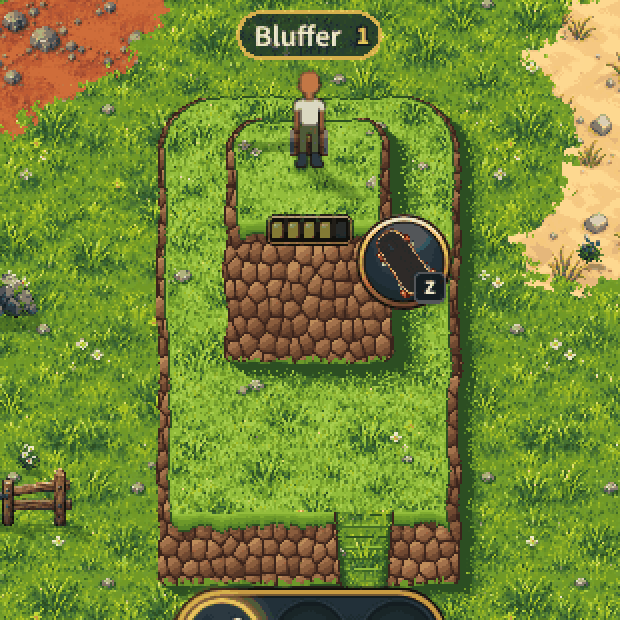
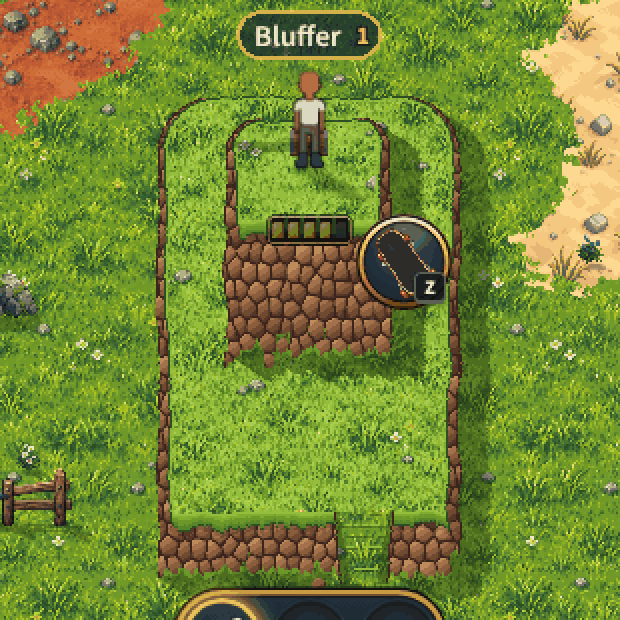
v2.3.4494: the Town Bluff's cliffs end on whole boulders (a jagged bottom), and its shade is the world's own
The owner: "Can you make the elevated dirt wall kind of jagged at the
bottom so it doesn't look like a perfect cutout?  Shadow is still kinda
off."

- the face ended on a line, every boulder along it sliced flat.  Now a
  boulder is in the wall or it is not (boulderAt, hillStone): the last
  row's keep the round of their lower halves, some sit lower than their
  neighbours, now and then one sits loose at the foot, and the ground's
  tufts stand in front of each.  The walk grid is the same cells.
- the cast shade was two dark greens scattered pixel by pixel, at its
  own angle.  Now it is thrown by the world's sun (WHEEL_SUN: 0.5 of the
  height east, 0.34 south, as a tree's and a player's) and painted as a
  smooth veil: each pixel under it taken to what the commons' shade
  makes of it (the grass by tone, a stone or flower by lightness), so
  the ground shows through, darker.  No colour outside RISE_PALETTE.
Drawing only: no server file, no bake.

Claude-Session: https://claude.ai/code/session_01LccHaiVDemmhEbxAJ4B2S9

diff --git a/public/tools/world/core/rises.js b/public/tools/world/core/rises.js
@@ -175,7 +175,11 @@ export const RISE_PALETTE = Object.freeze({
   grassEdge: [44, 78, 34],
   /* v2.3.4483: the brightest blade of a hill's top, which stands in the light (risePaint's lift) */
   grassLit: [168, 206, 78],
-  shade: Object.freeze([[44, 78, 34], [68, 108, 40]]),
+  /* v2.3.4494: a hill's cast shade, in the WORLD's own (lightfx/zoneLight.js: the commons' shadows are
+     0x13240c at 0.36 over the ground): the commons' grass tones under it, darkest to lightest, and
+     what a stone or a flower on that grass comes to.  risePaint picks by the pixel it falls on. */
+  shade: Object.freeze([[36, 60, 26], [50, 80, 30], [62, 94, 30], [77, 110, 30], [95, 130, 38]]),
+  shadeStone: Object.freeze([[56, 60, 50], [86, 90, 76], [118, 122, 104]]),
 });
 
 const pick = (arr, v) => arr[Math.max(0, Math.min(arr.length - 1, Math.floor(v * arr.length)))];
@@ -216,6 +220,19 @@ export function risePaint(plan, data, ow, oh, X0, Y0, K, opts = {}) {
       const rgb = riseColour(L, gx, gy, seed);
       if (!rgb) continue;
       const o = (py * ow + px) * 4;
+      /* v2.3.4494: A HILL'S CAST SHADE, AS THE WORLD'S.  The owner: "Shadow is still kinda off."  It
+         was two fixed dark greens scattered pixel by pixel -- a speckled band, beside trees and
+         players whose shadows are a smooth veil over the ground (the shadow layer's one shade).
+         Now it is that veil, painted: every pixel under it is taken to what the world's shade makes
+         of it -- the grass by its own tone (five steps), a stone or a flower by its lightness
+         (three) -- so the ground's detail shows through it, darker, and nothing sparkles.  Still
+         no colour but the rises' own. */
+      if (rgb.shade !== undefined) {
+        const R0 = data[o], G0 = data[o + 1], B0 = data[o + 2];
+        if (G0 > R0 + 10 && G0 > B0 + 10) set(o, RISE_PALETTE.shade[G0 >= 165 ? 4 : G0 >= 140 ? 3 : G0 >= 118 ? 2 : G0 >= 95 ? 1 : 0]);
+        else { const l = (R0 + G0 + B0) / 3; set(o, RISE_PALETTE.shadeStone[l >= 170 ? 2 : l >= 115 ? 1 : 0]); }
+        continue;
+      }
       if (rgb.lift === undefined) { set(o, rgb); continue; }
       /* v2.3.4483: A HILL'S TOP, LIT.  The owner, of the first grass ledge: "there's something wrong with
          the grass on top.  It looks like it's a transparent on top of the elevated surface.  It needs
@@ -259,7 +276,8 @@ export function riseColour(L, gx, gy, seed) {
     /* v2.3.4483: a hill's wander further and more slowly (a game px is under half a screen px on a
        phone): its lip up to 7 px into the top's front row, its foot up to 9 px onto the ground */
     const lip = hill ? top - 3.5 + 3.5 * valueNoise(gx * 0.045, 3.1, seed + r.k) : top - 2 + 2 * valueNoise(gx * 0.07, 3.1, seed + r.k);
-    const foot = hill ? hillFoot(r, c, gx, seed) : r.y1 * c + 2 + 2 * valueNoise(gx * 0.09, 5.3, seed + 7 + r.k);
+    /* (v2.3.4494: a hill's face ends on its boulders, not on a line: `foot` is the lowest one may sit) */
+    const foot = hill ? r.y1 * c + HILL.FOOT_MAX : r.y1 * c + 2 + 2 * valueNoise(gx * 0.09, 5.3, seed + 7 + r.k);
     if (gy >= lip && gy < foot) {
       if (!hill) return faceColour(r, c, gx, gy, top, foot, lip, seed);
       /* v2.3.4483: where a hill's face draws nothing (past its round ends, on its ramp) the rise under
@@ -267,7 +285,7 @@ export function riseColour(L, gx, gy, seed) {
          -- but not on its own ramp, which hillFace shades from its cut ends */
       const col = hillFace(r, c, gx, gy, top, foot, lip, seed);
       if (col) return col;
-      if (!(r.ramp && gx >= r.ramp.x0 * c && gx < r.ramp.x1 * c)) { const sh = hillCast(r, c, gx, gy, seed); if (sh) return sh; }
+      if (!(r.ramp && gx >= r.ramp.x0 * c && gx < r.ramp.x1 * c && gy < r.y1 * c + 3)) { const sh = hillCast(r, c, gx, gy, seed); if (sh) return sh; }
       continue;
     }
     /* v2.3.4462: a hill throws shade on the ground at its foot (what makes a bank stand UP on flat
@@ -414,30 +432,64 @@ function rimColour(r, c, gx, gy, seed) {
        laid again, the cliff's cut ends casting more shade the taller they stand.
    Painted in code like the rest (the sheet is "a visual design reference rather than a ...
    game-ready tile atlas": no picture is loaded), in RISE_PALETTE's own colours. */
-const HILL = Object.freeze({ GW: 16, GH: 20, WALL: 13, WALL_BACK: 5, CORNER: 14, FOOT_R: 10, CAST: 44, CAST_X: 0.4, CAST_Y: 0.3, CAST_MAX_X: 40, CAST_MAX_Y: 30 });
+const HILL = Object.freeze({ GW: 16, GH: 20, WALL: 13, WALL_BACK: 5, CORNER: 14, FOOT_MAX: 20, CAST: 44, CAST_H: 80 });
+/* v2.3.4494: the world's sun (lightfx/zoneLight.js WHEEL_SUN: a point h px up lands 0.5 h east and
+   0.34 h south of its foot) -- a hill's shade falls the way a tree's and a player's do */
+const SUN = Object.freeze({ lx: 0.5, ly: 0.34 });
+const HILL_SHADE = Object.freeze({ shade: 1 });   /* riseColour's answer for "in a hill's shade" (risePaint) */
 /* v2.3.4483: what riseColour answers for a hill's top -- not a colour but how much of the ground's own
    grass risePaint takes up a tone there: seven blades in ten on a rise on the ground, nearly all on one
    standing on another (told from a colour by its `lift`) */
 const HILL_LIFT = Object.freeze([Object.freeze({ lift: 0.7 }), Object.freeze({ lift: 0.92 })]);
-/* a hill's foot line at game px gx (riseColour's, and hillHolds'): 2-9 px past its last row */
-function hillFoot(r, c, gx, seed) {
-  return r.y1 * c + 2 + 2 * valueNoise(gx * 0.09, 5.3, seed + 7 + r.k) + 2.5 + 2.5 * valueNoise(gx * 0.031, 8.8, seed + 9 + r.k);
-}
 /* the corner's radius: as wide as the rise's `round` cells allow */
 function hillRound(r, c) { return r.round > 0 ? c * r.round - 12 : HILL.CORNER; }
-/* Is game px (gx, gy) inside a hill's DRAWN shape -- its top, its side walls, its face down to the
-   foot's line, inside its wandering edge and round corners, and not its ramp's gap?  The shape
+/* ═══ v2.3.4494: A CLIFF ENDS ON ITS BOULDERS ═══
+   The owner: "Can you make the elevated dirt wall kind of jagged at the bottom so it doesn't look
+   like a perfect cutout?"  The face ended on a line (a gently wandering one, with tufts in front):
+   every boulder along it was sliced flat.  Now a boulder is in the wall or it is not, whole: the
+   ones whose middle is above a wandering line through the face's last row are, and now and then
+   one just below it too (a stone that has come away and sits at the foot).  So the wall's bottom is
+   the round undersides of whole stones, some sitting lower than their neighbours, with gaps of
+   ground between them.  The walk grid is the same cells: only the picture ends differently
+   (HILL.FOOT_MAX: the lowest a stone's underside reaches below the face's last row). */
+function boulderAt(gx, gy, seed) {
+  const u = gx / HILL.GW, v = gy / HILL.GH, iu = Math.floor(u), iv = Math.floor(v);
+  let f1 = 9, f2 = 9, sx = 0, sy = 0, ci0 = 0, cj0 = 0, cx = 0, cy = 0;
+  for (let j = -1; j <= 1; j++) for (let i = -1; i <= 1; i++) {
+    const ci = iu + i, cj = iv + j;
+    const px = ci + 0.5 + (cj & 1 ? 0.5 : 0) + (hash2(ci, cj, seed + 71) - 0.5) * 0.6;
+    const py = cj + 0.5 + (hash2(ci, cj, seed + 73) - 0.5) * 0.5;
+    const d = Math.hypot(u - px, v - py);
+    if (d < f1) { f2 = f1; f1 = d; sx = u - px; sy = v - py; ci0 = ci; cj0 = cj; cx = px * HILL.GW; cy = py * HILL.GH; } else if (d < f2) f2 = d;
+  }
+  return { gap: f2 - f1, sx, sy, sh: hash2(ci0, cj0, seed + 75), loose: hash2(ci0, cj0, seed + 77), cx, cy };
+}
+/* is this point of this boulder (boulderAt's) part of rise r's wall -- or of a loose one at its foot?
+   A boulder in the wall's last row keeps only the ROUND of its lower half (the cells of a grid of
+   points meet in corners: left whole, the wall's bottom is a row of teeth), and a loose one is
+   round all over. */
+function hillStone(r, c, st, seed, wallOnly) {
+  const line = r.y1 * c - 9 + 6 * valueNoise(st.cx * 0.05, 8.8 + r.k, seed + 9);
+  if (st.cy <= line - HILL.GH) return true;
+  /* (a last-row or loose boulder whose middle is outside the cliff's end is not there: a sliver of
+     one would hang off the corner) */
+  if (Math.min(st.cx - r.x0 * c - hillEdge(r, 0, st.cy, seed), r.x1 * c - st.cx - hillEdge(r, 1, st.cy, seed)) < 4) return false;
+  const d = Math.hypot(st.sx, st.sy);
+  if (st.cy <= line) return st.sy <= 0 || d < 0.56;
+  /* (a loose one casts no shade of the cliff's: `wallOnly`, hillHolds) */
+  return !wallOnly && st.cy <= line + 13 && st.loose > 0.78 && d < 0.46;
+}
+/* Is game px (gx, gy) inside a hill's DRAWN shape -- its top, its side walls, its face down to its
+   last boulders, inside its wandering edge and round corners, and not its ramp's gap?  The shape
    hillRim and hillFace draw, asked as one question: what casts the shade (hillCast). */
 function hillHolds(r, c, gx, gy, seed) {
   const x0 = r.x0 * c, x1 = r.x1 * c, y0 = r.y0 * c, top = r.faceY0 * c;
-  if (gx < x0 || gx >= x1 || gy < y0 || gy >= r.y1 * c + 10) return false;
+  if (gx < x0 || gx >= x1 || gy < y0 || gy >= r.y1 * c + HILL.FOOT_MAX) return false;
   const rw = gx - x0 - hillEdge(r, 0, gy, seed), re = x1 - gx - hillEdge(r, 1, gy, seed), end = Math.min(rw, re);
   if (end < 0) return false;
   if (gy >= top - 2) {
-    const ds = hillFoot(r, c, gx, seed) - gy;
-    if (ds <= 0) return false;
-    if (end < HILL.FOOT_R && ds < HILL.FOOT_R && Math.hypot(HILL.FOOT_R - end, HILL.FOOT_R - ds) > HILL.FOOT_R) return false;
-    return !(r.ramp && gx >= r.ramp.x0 * c + 4 && gx < r.ramp.x1 * c - 4);
+    if (r.ramp && gx >= r.ramp.x0 * c + 4 && gx < r.ramp.x1 * c - 4) return false;
+    return gy < r.y1 * c - 40 || hillStone(r, c, boulderAt(gx, gy, seed), seed, true);
   }
   const gn = gy - y0 - hillEdge(r, 2, gx, seed);
   if (gn < 0) return false;
@@ -445,23 +497,25 @@ function hillHolds(r, c, gx, gy, seed) {
   if (side < R && gn < R) { const ax = R - side, ay = R - gn, h = Math.hypot(ax, ay); return h <= 0 || R - h >= -wall * (ax / h); }
   return true;
 }
-/* v2.3.4483: THE SHADE A HILL CASTS -- its drawn shape's own shadow on the ground, thrown south-east
-   (the light is from the north-west, as on its boulders), longer the taller it stands: 0.4 of its
-   height east and 0.3 south (a 72 px terrace 29 and 22 px; a 144 px ledge the caps, 40 and 30).
-   The owner, of the first one (a straight band down the east side from below the corner, and a
-   separate one at the foot): "correct the shadow that doesnt band around the bend.  The overall
-   structure still needs more of a shadow effect."  So it is ONE shadow, the shape's: a point is in
-   it when the hill stands between it and the light -- found by stepping back toward the light --
-   so it bends round the back corner, runs down the side, and turns under the foot with no seam.
-   Solid at the hill, breaking up to nothing at its far edge.  null where there is none. */
+/* v2.3.4483: THE SHADE A HILL CASTS -- its drawn shape's own shadow on the ground.  The owner, of the
+   first one (a straight band down the east side from below the corner, and a separate one at the
+   foot): "correct the shadow that doesnt band around the bend.  The overall structure still needs
+   more of a shadow effect."  So it is ONE shadow, the shape's: a point is in it when the hill stands
+   between it and the light -- found by stepping back toward the light -- so it bends round the back
+   corner, runs down the side, and turns under the foot with no seam.
+   v2.3.4494 ("Shadow is still kinda off"): thrown by the WORLD's sun (SUN: a tree's shadow and a
+   player's fall the same way and as far for their height: 0.5 of the rise's height east, 0.34
+   south; a rise over HILL.CAST_H tall casts as one that tall, so a ledge's shade stays on the
+   terrace it stands on), and a smooth veil where it was a scatter of dark pixels (HILL_SHADE:
+   risePaint), breaking up only along its last sixth.  null where there is none. */
 function hillCast(r, c, gx, gy, seed) {
-  const cx = Math.min(HILL.CAST_MAX_X, r.h * HILL.CAST_X), cy = Math.min(HILL.CAST_MAX_Y, r.h * HILL.CAST_Y);
-  const N = 8;
+  const h = Math.min(HILL.CAST_H, r.h), cx = h * SUN.lx, cy = h * SUN.ly;
+  const N = 12;
   for (let i = 1; i <= N; i++) {
     const t = i / N;
     if (!hillHolds(r, c, gx - cx * t, gy - cy * t, seed)) continue;
-    if (t > 0.3 && hash2(Math.floor(gx), Math.floor(gy), seed + 43) < (t - 0.3) / 0.7 * 0.92) return null;
-    return RISE_PALETTE.shade[t < 0.6 ? 0 : 1];
+    if (t > 0.84 && hash2(Math.floor(gx), Math.floor(gy), seed + 43) < (t - 0.84) / 0.16) return null;
+    return HILL_SHADE;
   }
   return null;
 }
@@ -482,20 +536,11 @@ function hillWall(r, c, gy) {
 /* a boulder of the cliff at (gx, gy): the cells of a jittered grid of points, taller than wide, each
    a stone lit from the upper left with a dark gap round it.  `dark` 0-1 takes it down (deep in the
    face, under the cap, the side in shadow). */
-function boulderColour(gx, gy, dark, seed) {
-  const u = gx / HILL.GW, v = gy / HILL.GH, iu = Math.floor(u), iv = Math.floor(v);
-  let f1 = 9, f2 = 9, sx = 0, sy = 0, sh = 0;
-  for (let j = -1; j <= 1; j++) for (let i = -1; i <= 1; i++) {
-    const ci = iu + i, cj = iv + j;
-    const px = ci + 0.5 + (cj & 1 ? 0.5 : 0) + (hash2(ci, cj, seed + 71) - 0.5) * 0.6;
-    const py = cj + 0.5 + (hash2(ci, cj, seed + 73) - 0.5) * 0.5;
-    const d = Math.hypot(u - px, v - py);
-    if (d < f1) { f2 = f1; f1 = d; sx = u - px; sy = v - py; sh = hash2(ci, cj, seed + 75); } else if (d < f2) f2 = d;
-  }
-  const gap = f2 - f1;
-  if (gap < 0.1) return RISE_PALETTE.boulder[0];
-  let lit = 0.62 - 0.55 * sy - 0.3 * sx + 0.22 * (sh - 0.5) - 0.3 * dark;
-  if (gap < 0.24 && (sy > 0.05 || sx > 0.1)) lit -= 0.2;   /* the stone's own underside, by the gap */
+function boulderColour(gx, gy, dark, seed, st) {
+  const b = st || boulderAt(gx, gy, seed);
+  if (b.gap < 0.1) return RISE_PALETTE.boulder[0];
+  let lit = 0.62 - 0.55 * b.sy - 0.3 * b.sx + 0.22 * (b.sh - 0.5) - 0.3 * dark;
+  if (b.gap < 0.24 && (b.sy > 0.05 || b.sx > 0.1)) lit -= 0.2;   /* the stone's own underside, by the gap */
   return RISE_PALETTE.boulder[1 + Math.max(0, Math.min(4, Math.floor(lit * 5)))];
 }
 function hillFace(r, c, gx, gy, top, foot, lip, seed) {
@@ -503,12 +548,8 @@ function hillFace(r, c, gx, gy, top, foot, lip, seed) {
   /* the cliff's two ends: its wandering edge, and a round corner at the foot */
   const dw = ox - hillEdge(r, 0, gy, seed), de = oxe - hillEdge(r, 1, gy, seed), dEnd = Math.min(dw, de);
   if (dEnd < 0) return null;
-  const ds = foot - gy;
-  let round = 9;
-  if (dEnd < HILL.FOOT_R && ds < HILL.FOOT_R) {
-    round = HILL.FOOT_R - Math.hypot(HILL.FOOT_R - dEnd, HILL.FOOT_R - ds);
-    if (round < 0) return null;
-  }
+  /* (v2.3.4494: `foot` is the lowest a boulder may sit; the face's own last row ends at `base`) */
+  const base = r.y1 * c + 3, ds = base - gy;
   const q = gy - lip;
   /* a ramp: the grass runs down through the face.  The ground as laid shows (null), under the shade
      of the cut ends either side -- wider the lower you are, where they stand taller over you -- and a
@@ -517,24 +558,30 @@ function hillFace(r, c, gx, gy, top, foot, lip, seed) {
     const rx0 = r.ramp.x0 * c, rx1 = r.ramp.x1 * c;
     /* (its cut ends are drawn as the side walls are, leaning in: 3 px into the ramp's own cells at
        its top, 9 at its foot, where they stand a face tall -- the feet's box stops 10 short of them) */
-    const t = Math.max(0, Math.min(1, (gy - top) / Math.max(1, foot - top)));
+    const t = Math.max(0, Math.min(1, (gy - top) / Math.max(1, base - top)));
     const w = 1.5 * valueNoise(gy * 0.21, 4.4 + r.k, seed + 81);
     const e = Math.min(gx - rx0 - 3 - 6 * t - w, rx1 - gx - 3 - 6 * t + w);
     if (e >= 0) {
+      if (ds <= 0) return null;   /* past the ramp's foot: the ground */
       if (e < 2 && q > 1) return RISE_PALETTE.boulder[0];
+      /* (v2.3.4494: the cut ends' shade and the steps' dark lines are the world's shade too: HILL_SHADE) */
       const sw = 4 + 12 * t;
-      if (e < 2 + sw && hash2(Math.floor(gx), Math.floor(gy), seed + 83) > (e - 2) / sw) return RISE_PALETTE.shade[e < 2 + sw * 0.45 ? 0 : 1];
+      if (e < 2 + sw * 0.6 || (e < 2 + sw && hash2(Math.floor(gx), Math.floor(gy), seed + 83) > (e - 2 - sw * 0.6) / (sw * 0.4))) return HILL_SHADE;
       /* the slope's steps: every 12 px a line of darker grass, lit along the line above it */
       const band = ((gy - top) % 12 + 12) % 12;
       if (q > 4 && ds > 5) {
-        if (band < 2.2 && hash2(Math.floor(gx / 3), Math.floor((gy - top) / 12), seed + 85) > 0.14) return RISE_PALETTE.shade[band < 1.1 ? 0 : 1];
+        if (band < 2.2 && hash2(Math.floor(gx / 3), Math.floor((gy - top) / 12), seed + 85) > 0.14) return HILL_SHADE;
         if (band >= 10.4 && hash2(Math.floor(gx / 3), Math.floor((gy - top) / 12) + 1, seed + 87) > 0.3) return RISE_PALETTE.grass[4];
       }
       return null;
     }
   }
-  /* the outline: the darkest rock down both ends and round the foot's corners */
-  if (dEnd < 1.6 || round < 1.6) return RISE_PALETTE.boulder[0];
+  /* v2.3.4494: is there a boulder here at all?  (Only its last rows can lack one: hillStone.) */
+  const low = gy >= r.y1 * c - 40;
+  const st = low ? boulderAt(gx, gy, seed) : null;
+  if (st && !hillStone(r, c, st, seed)) return null;
+  /* the outline: the darkest rock down both ends */
+  if (dEnd < 1.6) return RISE_PALETTE.boulder[0];
   /* the cap: its lit edge, then blades hanging 10-21 px over the rock (three px a blade), darker as
      they hang, a dark edge under them and their shade on the stones below */
   const tooth = hash2(Math.floor(gx / 3), r.k, seed + 13);
@@ -546,13 +593,14 @@ function hillFace(r, c, gx, gy, top, foot, lip, seed) {
     if (q < fr) { const t = q / fr; return RISE_PALETTE.grass[t < 0.4 ? 3 : t < 0.72 ? 2 : 1]; }
     if (q < fr + 2) return RISE_PALETTE.grassEdge;
   }
-  /* the ground's own tufts standing in front of the foot (two px a blade), and the dark where the
-     rock sits in the ground between them */
-  const tuft = hash2(Math.floor(gx / 3), r.k + 7, seed + 17);
-  if (ds < 1 + 8 * tuft * tuft) return RISE_PALETTE.grass[tuft > 0.6 ? 2 : 1];
-  if (ds < 3) return RISE_PALETTE.boulder[0];
-  const depth = (gy - top) / Math.max(1, foot - top);
-  return boulderColour(gx, gy, 0.55 * depth + (q < fr + 7 ? 0.7 : 0), seed);
+  /* the ground's own tufts standing in front of a boulder's underside (three px a blade): where,
+     that blade's height further down, there is no boulder */
+  if (low) {
+    const tuft = hash2(Math.floor(gx / 3), r.k + 7, seed + 17), th = 1 + 7 * tuft * tuft;
+    if (gy + th >= foot || !hillStone(r, c, boulderAt(gx, gy + th, seed), seed)) return RISE_PALETTE.grass[tuft > 0.6 ? 2 : 1];
+  }
+  const depth = Math.min(1, (gy - top) / Math.max(1, base - top));
+  return boulderColour(gx, gy, 0.55 * depth + (q < fr + 7 ? 0.7 : 0), seed, st);
 }
 function hillRim(r, c, gx, gy, seed) {
   const ox = gx - r.x0 * c, oxe = r.x1 * c - gx, oy = gy - r.y0 * c;

diff --git a/docs/specs/rise-chest.md b/docs/specs/rise-chest.md
@@ -107,19 +107,34 @@ near BroTown).
     measured tones. No colour outside `RISE_PALETTE`, so a piece of ground
     stays colour numbers;
   - its **cast shade** (`hillCast`, `hillHolds`): ONE shadow, the drawn
-    shape's own, thrown south-east (the light is from the north-west) and
-    longer the taller the rise: 0.4 of its height east and 0.3 south, capped
-    at 40 and 30 px. A point is in it when the hill stands between it and the
+    shape's own. A point is in it when the hill stands between it and the
     light (stepping back toward the light), so it bends round the back corner,
     runs down the east side and turns under the foot with no seam; the ledge's
-    falls on the terrace's lit top. The first version was a straight band down
-    the east side plus a separate one at the foot, and the owner said: "correct
-    the shadow that doesnt band around the bend. The overall structure still
-    needs more of a shadow effect.";
+    falls on the terrace's lit top. (The first version was a straight band
+    down the east side plus a separate one at the foot: "correct the shadow
+    that doesnt band around the bend. The overall structure still needs more
+    of a shadow effect.")
+    v2.3.4494, "Shadow is still kinda off": it is now **the world's shadow**.
+    Thrown by the world's sun (`lightfx/zoneLight.js` `WHEEL_SUN`: 0.5 of the
+    height east, 0.34 south, as a tree's and a player's; a rise over 80 px
+    casts as one 80 px tall, so the ledge's shade stays on the terrace), and a
+    **smooth veil** where it was two dark greens scattered pixel by pixel:
+    `risePaint` takes each pixel under it to what the commons' shade
+    (0x13240c at 0.36) makes of it, the grass by its tone (5 steps,
+    `RISE_PALETTE.shade`), a stone or a flower by its lightness (3,
+    `shadeStone`). The ground's detail shows through, darker. Loose boulders
+    cast none of it;
   - its **face** a cliff of rounded brown boulders (lit from the upper left,
     dark in the gaps, darker toward the foot) under a thick **cap** of grass
-    whose blades hang 10 to 21 px over it, the ground's own tufts standing in
-    front of its foot, and its **shade** on the grass below;
+    whose blades hang 10 to 21 px over it.
+    v2.3.4494, "make the elevated dirt wall kind of jagged at the bottom so it
+    doesn't look like a perfect cutout": the face **ends on whole boulders**
+    (`boulderAt`, `hillStone`), not on a line. A boulder is in the wall when
+    its middle is above a wandering line through the last row; the last row's
+    keep the round of their lower halves; now and then one sits loose just
+    below. The ground's tufts stand in front of each underside. The walk grid
+    is the same cells: a stone may sit up to 20 px past the last row, and the
+    ground may show up to about 25 px inside it, between stones;
   - its **sides** the same cliff nearly edge-on: a wall 5 px wide at the back
     and 13 where it meets the face (west lit, east in shadow);
   - its **outline** wandering 1 to 9 px and stepping stone to stone, its two

diff --git a/docs/ELEVATION-PLAN.md b/docs/ELEVATION-PLAN.md
@@ -309,6 +309,8 @@ area goes and what its prize is: "Go recommended."
   ledge: boulder cliffs under a grass cap, side walls, round back corners) and
   its vines are a RAMP you walk up (`ramp`, a new kind of cell). The spec has
   it (`docs/specs/rise-chest.md` "Drawn as a grass ledge").
+- v2.3.4494: its cliffs end on whole boulders (a jagged bottom) and its shade
+  is the world's own (the sun's angle, a smooth veil). Same section.
 
 ### The next PRs
 
